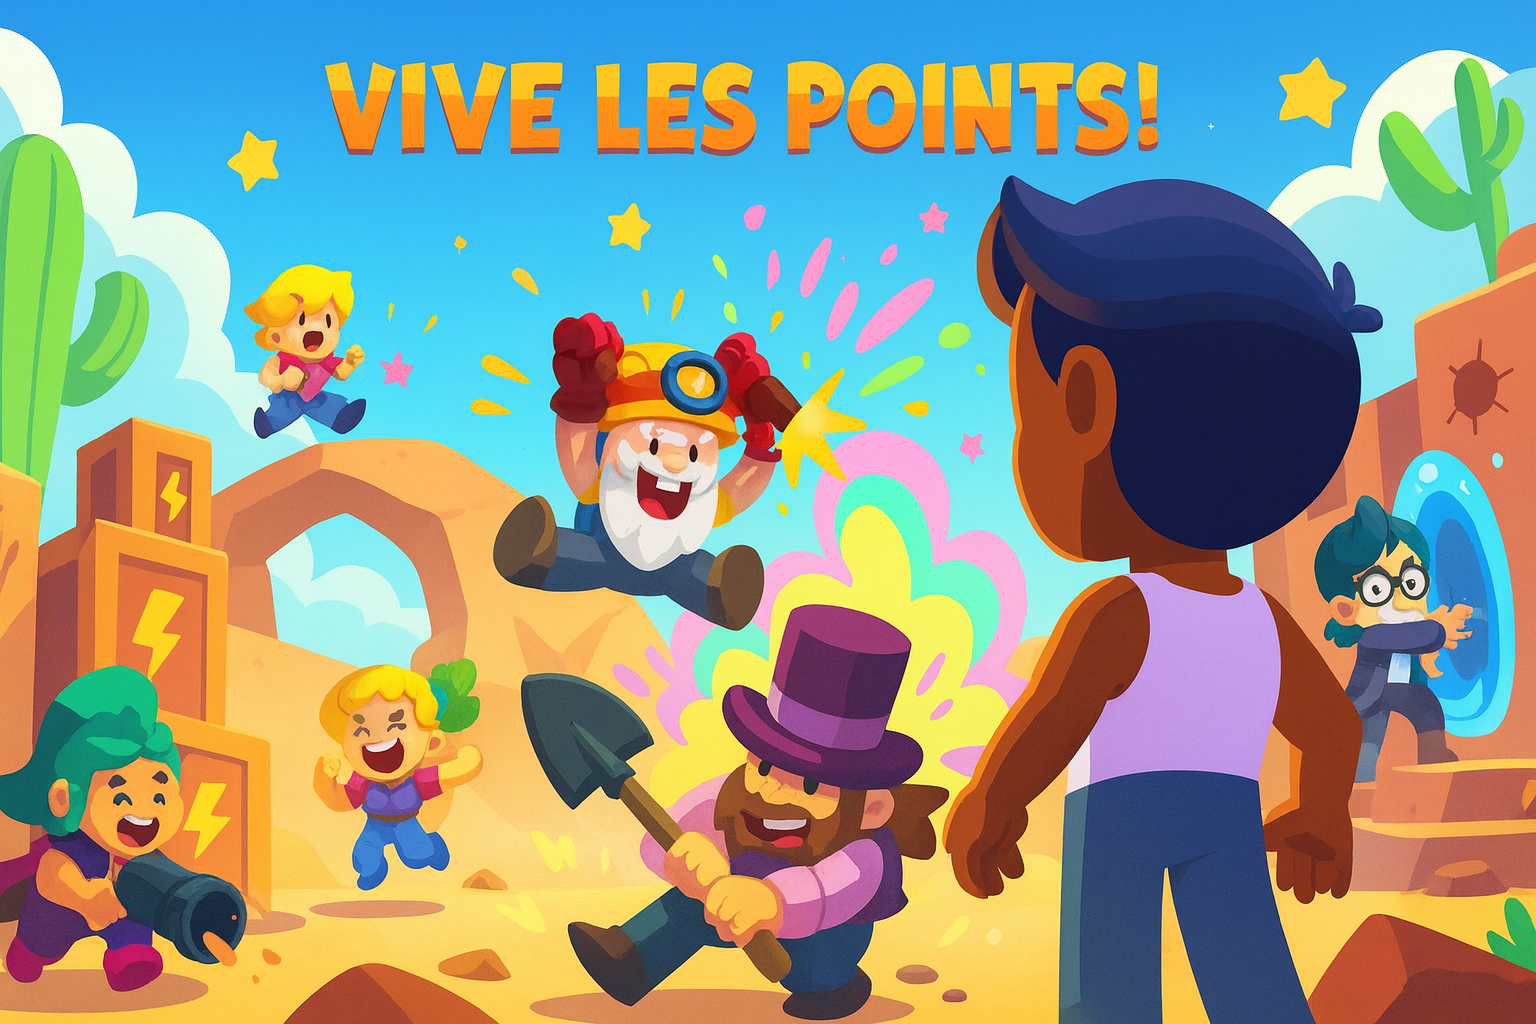
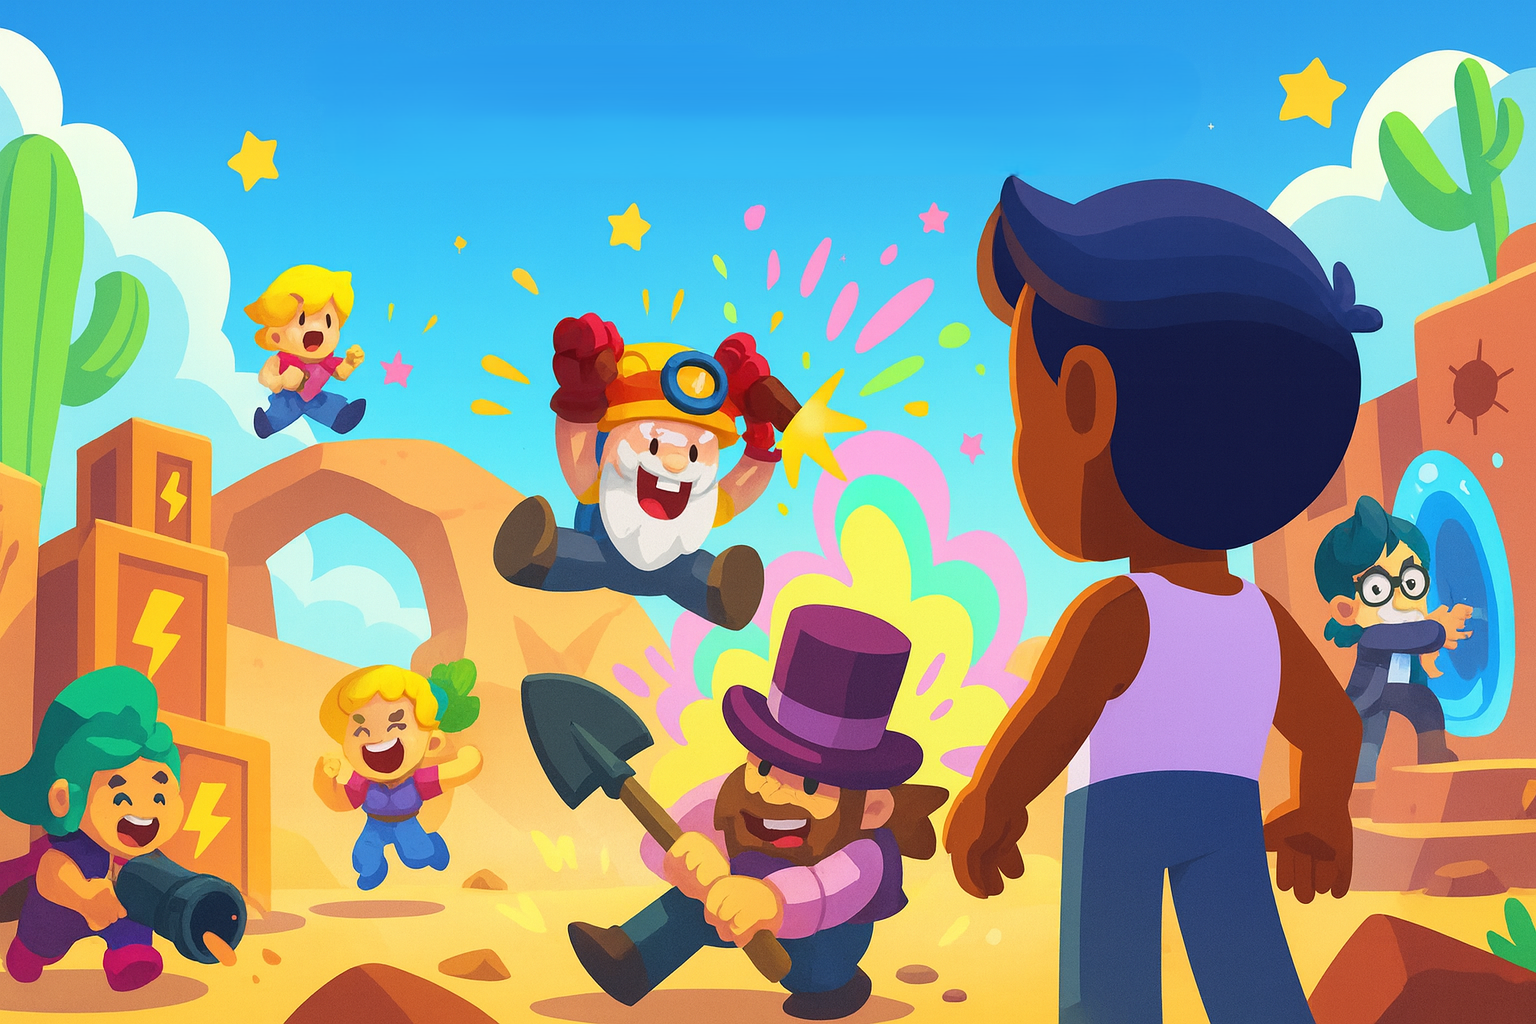
modif image

Changed region(s): [[0.1875, 0.0625, 0.7812, 0.1562]]

diff --git a/points/static/points/style.css b/points/static/points/style.css
@@ -2,11 +2,12 @@
 html, body {
   height: 100%;
   margin: 0;
+  padding: 0;
 }
 body {
   display: flex;
   flex-direction: column;
-  min-height: 100vh;
+  min-height: 100svh;
 }
 main {
   flex: 1; /* prend toute la hauteur restante */

diff --git a/config/settings/base.py b/config/settings/base.py
@@ -220,8 +220,8 @@ MANAGERS = ADMINS
 
 
 # Expéditeur et préfixe des sujets
-SERVER_EMAIL = "errors@dgpython.fr"          # From des mails d’erreurs
-DEFAULT_FROM_EMAIL = "no-reply@dgpython.fr"  # From par défaut de ton site
+SERVER_EMAIL = "mathieu@vive-les-points.fr"          # From des mails d’erreurs
+DEFAULT_FROM_EMAIL = "mathieu@vive-les-points.fr"  # From par défaut de ton site
 EMAIL_SUBJECT_PREFIX = "[Vive les Points] "
 
 # Backend email (exemple SMTP générique — remplace par ton fournisseur)

diff --git a/README.md b/README.md
@@ -1,4 +1,4 @@
-![logo-image](doc/vive-les-points.png)
+![logo-image](doc/vive-les-points_titre.png)
 
 # Vive les points! 
 
